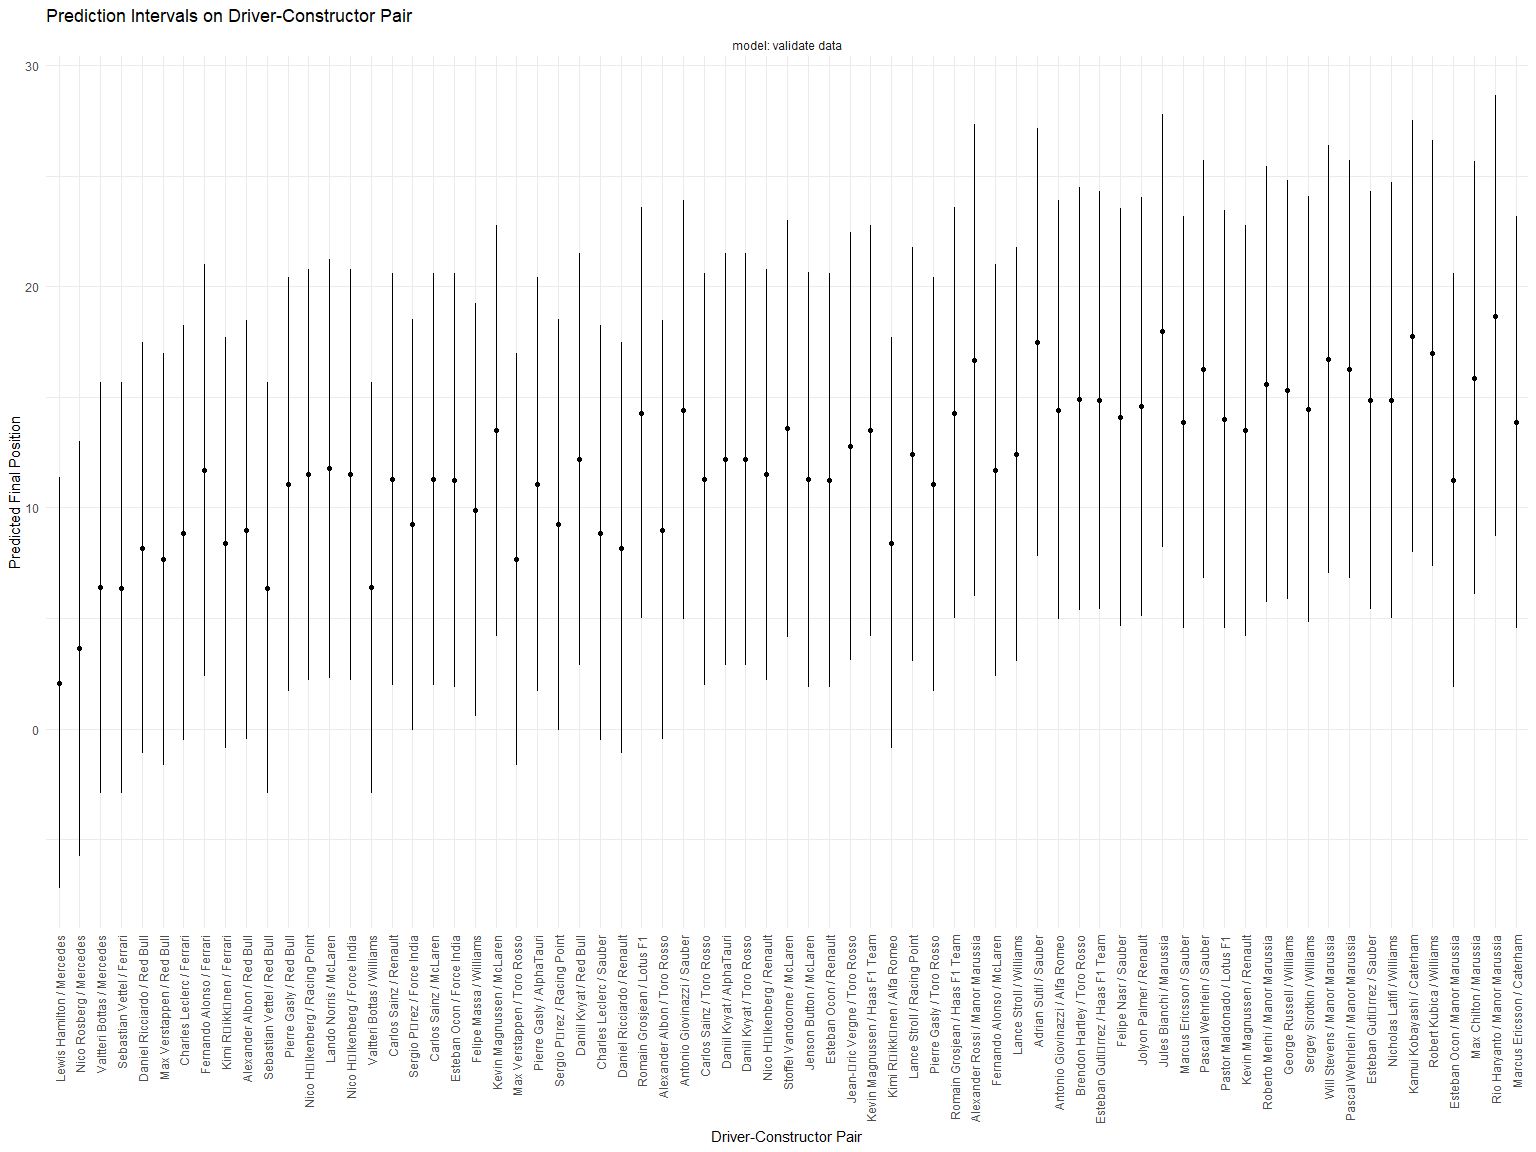
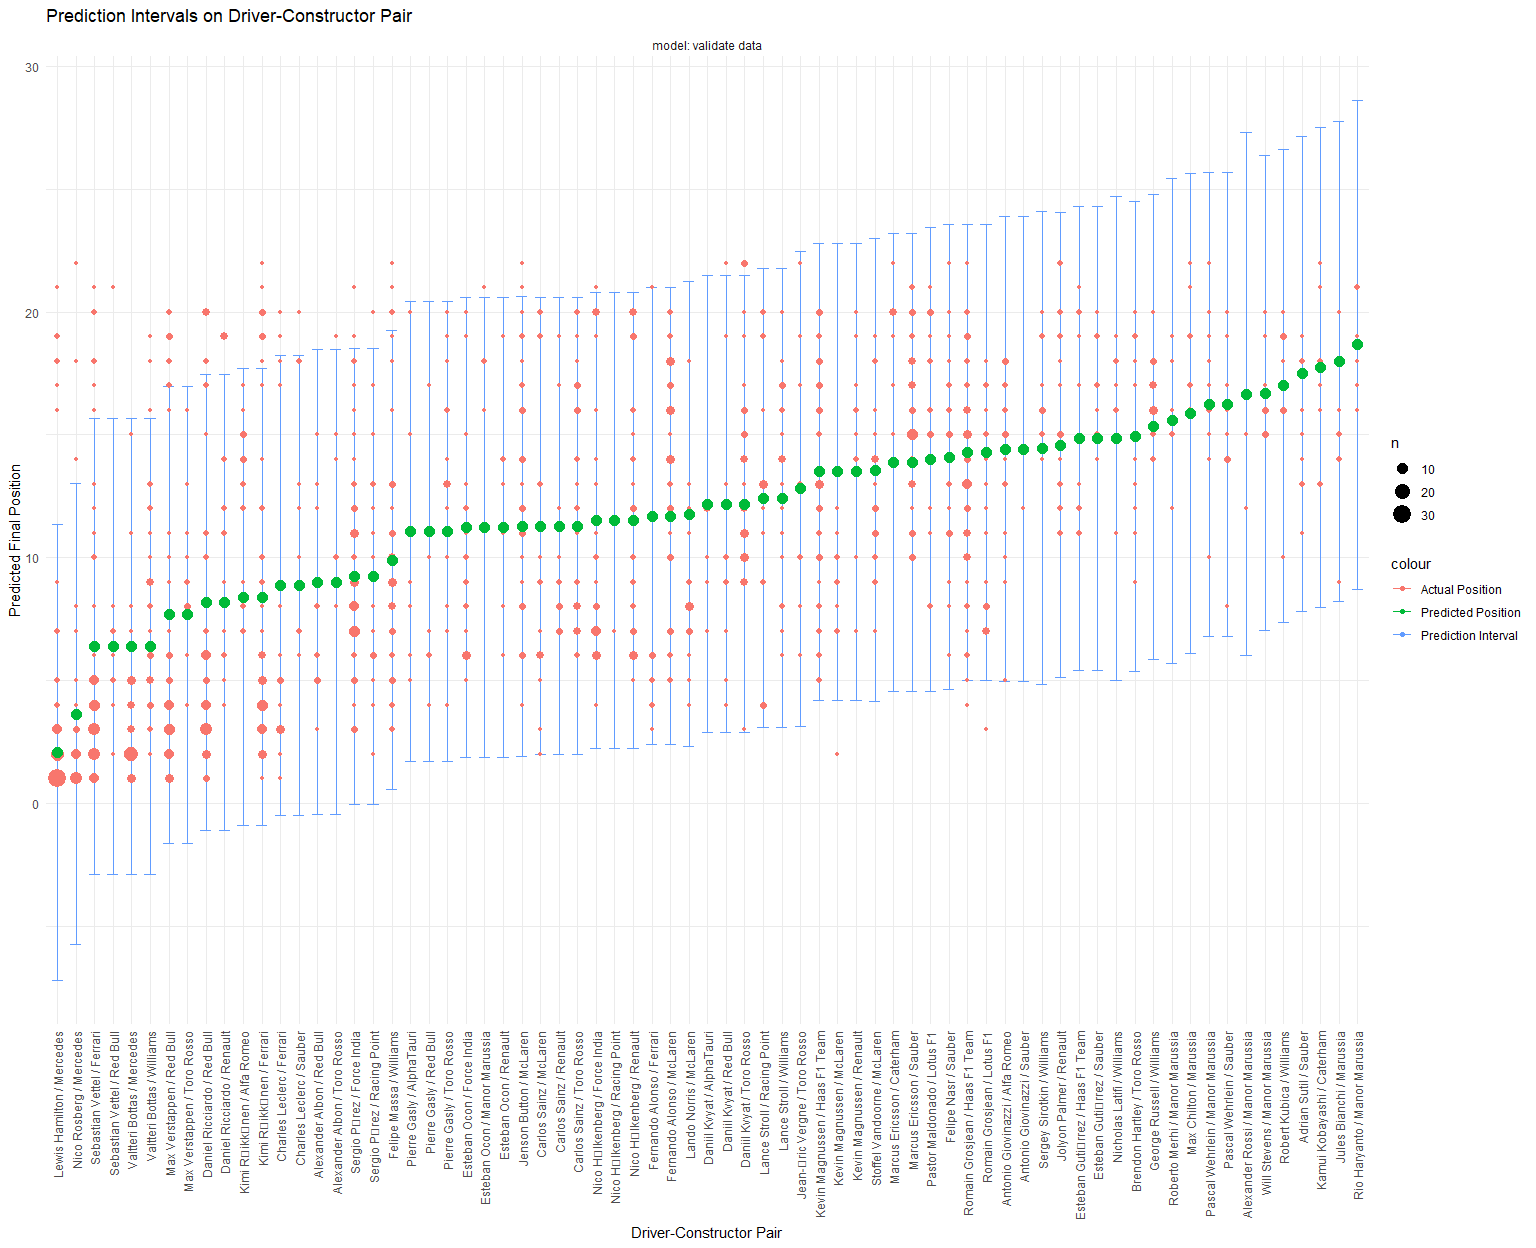
finishing up report

diff --git a/Final_Report.md b/Final_Report.md
@@ -21,12 +21,11 @@ Lilo Heinrich, Tim Novak, and Colin Takeda
   - [Final Position Order](#final-position-order)
       - [Driver and Constructor by Final Position
         Order](#driver-and-constructor-by-final-position-order)
-      - [Modelling by Final Position
-        Order](#modelling-by-final-position-order)
-      - [Prediction Interval](#prediction-interval)
-      - [Assessing Final Position Order
-        Models](#assessing-final-position-order-models)
-      - [Quantifying uncertainty](#quantifying-uncertainty)
+      - [Modeling by Final Position
+        Order](#modeling-by-final-position-order)
+      - [Predicted vs Actual Final Position
+        Order](#predicted-vs-actual-final-position-order)
+      - [Prediction Intervals](#prediction-intervals)
   - [Questions Remaining](#questions-remaining)
   - [Conclusion](#conclusion)
 
@@ -46,11 +45,14 @@ impact?
 #### Context
 
 The Formula 1 World Championship has been one of the premier forms of
-auto racing around the world since its inaugural season in 1950. The
-word “formula” refers to the set of rules to which all participants’
-cars must conform. A Formula 1 season consists of a series of Grands
-Prix races which take place worldwide on circuits and closed public
-roads.
+auto racing around the world since its first season in 1950. The word
+“formula” refers to the set of rules that the participants’ cars must
+conform to. Each Formula 1 season consists of a series of Grands Prix
+races that take place worldwide on racing circuits and closed public
+roads. Formula 1 is one of the most popular sports in the world, with
+over [450 million TV
+viewers](https://digital.hbs.edu/platform-digit/submission/formula-1-speeding-towards-esports-success/)
+in 2020.
 
 #### Data Source
 
@@ -100,22 +102,25 @@ missing values with `NA`.
 
 In our dataset we kept these columns:
 
-  - `resultId`
-  - `raceId`
-  - `driverId`
-  - `constructorId`
-  - `positionOrder`
-  - `laps`
-  - `fastestLapSpeed`
-  - `statusId`
-  - `driver_name`
-  - `constructor_name`
-  - `year`
-  - `round`
-  - `circuitId`
-  - `race_name`
-  - `status`
-  - `circuit_name`
+  - `raceId` & `race_name` The ID number and corresponding name of the
+    race
+  - `driverId` & `driver_name` The ID number and corresponding driver’s
+    name
+  - `constructorId` & `constructor_name` The car constructor’s ID number
+    and name
+  - `positionOrder` The final position order of the race, describing the
+    order the racers finished in.
+      - Racers that completed the most laps and in the fastest time
+        receive the highest positions.
+  - `laps` The number of full laps completed
+  - `fastestLapSpeed` The speed in km/hr of the racer’s fastest lap of
+    the race
+  - `statusId` & `status` The status ID number and name.
+      - Examples of status name: “Finished”, “Collision”,
+        “Disqualified”, or “Engine” (experienced engine problems)
+  - `year` The year of the race
+  - `circuitId` & `circuit_name` The circuit’s ID number and
+    corresponding name
 
 #### Time data
 
@@ -132,13 +137,14 @@ removed these observations. Overall, we still only have lap times for
 
 In this time-filtered dataset we added these columns:
 
-  - `total_time` the total time of a race in milliseconds
-  - `avg_lap` the average lap time for a individual race in milliseconds
-  - `circuit_avg_lap` the average lap time for a individual circuit in
+  - `total_time` The total time of a race in milliseconds
+  - `avg_lap` The average lap time for an individual race in
     milliseconds
-  - `circuit_lap_sd` the standard deviation of the average lap time in
+  - `circuit_avg_lap` The average lap time for a individual circuit in
     milliseconds
-  - `std_avg_lap` the standardized average lap time \[unitless\]
+  - `circuit_lap_sd` The standard deviation of the average lap time in
+    milliseconds
+  - `std_avg_lap` The standardized average lap time \[unitless\]
 
 #### Changes in racing ruleset/vehicle design through the years
 
@@ -156,10 +162,19 @@ Thus we filtered our data to only examine the data from 2014 onwards.
 
   - Some examples of [constructor name
     changes](https://www.reddit.com/r/formula1/comments/1dos3r/i_made_a_diagram_to_show_how_current_f1_teams/)
+      - Our dataset does not include the aliases or previous names of
+        constructors, so we are unable to account for this
+        relationship.  
   - New drivers are skewed because they don’t have as many data points
     yet
+      - The more datapoints we have on each driver, the better we can
+        characterize their performance. New drivers have fewer known
+        datapoints, so their predictions will have a higher level of
+        uncertainty.
   - Teams and drivers are correlated, in that the best drivers tend to
     get hired by the best teams
+      - This confluence between team and driver may make it difficult to
+        separate the impact of driver and constructor.
 
 -----
 
@@ -169,8 +184,13 @@ Thus we filtered our data to only examine the data from 2014 onwards.
 
 ![](Final_Report_files/figure-gfm/finish%20race-1.png)<!-- -->
 
+    ## # A tibble: 1 x 1
+    ##   percent_finishrace
+    ##                <dbl>
+    ## 1               80.4
+
 As shown in the graph above, final position is heavily reliant on how
-many laps the driver was able to complete. And almost a third of the
+many laps the driver was able to complete. And almost a fifth of the
 time, collisions or car troubles put drivers out of commission before
 the race is finished. These final standings are not reflective of how
 well the driver was doing before that point, so we decided to use
@@ -270,38 +290,37 @@ should explore other variables to indicate performance.
 We can see that when we plot the final position vs the driver of the
 vehicle there does seem to be a correlation. in that some drivers tend
 to outperform the average and some drivers tend to underperform the
-average. If we examine the names the highly performing racers tend to be
-the racers more well renown for their skill such as [Lewis
+average. If we examine the names, the highly performing racers tend to
+be the racers more well renown for their skill, such as [Lewis
 Hamilton](https://en.wikipedia.org/wiki/Lewis_Hamilton) and [Nico
 Rosberg](https://en.wikipedia.org/wiki/Nico_Rosberg). This suggests that
 there is a correlation between the driver performance and the standing
-in the race and we can see this play out in the relatively linear
+in the race, and that we can see this play out in the relatively linear
 relation between the two variables. An interesting relation we can see
 in the data are ‘plateaus’ in the median values where there are sets of
-drivers with similar performances.
+drivers with similar performance.
 
 ![](Final_Report_files/figure-gfm/unnamed-chunk-5-1.png)<!-- -->
 
-When we plot the constructor vs the final position order we see
-generally that the higher performing constructors are associated with a
-low position order, and the lower performing constructors are associated
-with a lower position order, however this is not a linear relationship.
-The highest performing constructors account for most of the low final
-position orders and the lowest performing constructors account for much
-of the high final position orders. But middle performing constructors
-all seem to have similar performance.
+When we plot the constructor by the final position order, we see
+generally that the higher performing constructors are associated with
+lower position order, and the lower performing constructors are
+associated with higher position order. However this is not a linear
+relationship. The highest performing constructors account for most of
+the low final position orders and the lowest performing constructors
+account for much of the high final position orders, but middle
+performing constructors all seem to have similar performance.
 
 Taken together we can see that the driver and constructor graphs are
 correlated with the final position order so it is likely that both of
-them help account for the final position order, but they might not be
-the sole determining factors. The more linear relationship of driver
-with final position order suggests that the driver is slightly more
-predictive of the final position order than the less linear vehicle
-constructor.
+them help account for the final position order, but are not the sole
+determining factors. The more linear relationship of driver with final
+position order suggests that the driver is slightly more predictive of
+the final position order than the less linear vehicle constructor.
 
-#### Modelling by Final Position Order
+#### Modeling by Final Position Order
 
-Next, we will model the entire data set
+Next, we will apply a linear model on the entire data set.
 
     ## Train Fit - Just Driver
 
@@ -325,63 +344,80 @@ After multiple samples we see that the R-squared values for just driver
 and just constructor tend to range from 30% to 37% and a MSE that ranges
 from 22 to 24. The just driver and just constructor fits seem to be very
 close in R-squared values and MSE to one another and there is no
-significant difference between the two. In comparison, driver and
-constructor has an R-squared value that tends to range from 33% to 41%
-and a MSE of 20 to 23. The driver and constructor fit tends to always be
-better than either the just driver or just constructor fit. Overall, the
-the range of values for the driver and constructor fit is promising
-given the multitude of outside factors in racing that is not covered by
-the investigated factors.
+significant difference between the two.
 
-#### Prediction Interval
+In comparison, driver and constructor has an R-squared value that tends
+to range from 33% to 41% and a MSE of 20 to 23. The driver and
+constructor fit tends to always be better than either the just driver or
+just constructor fit.
 
-    ## Train Fit - Just Driver
+Overall, the the range of values for the driver and constructor fit is
+promising given the multitude of outside factors in racing that are not
+covered by the investigated factors.
 
-    ##   Rsquare 0.3464126
+#### Predicted vs Actual Final Position Order
 
-    ##   MSE 23.39755
+![](Final_Report_files/figure-gfm/unnamed-chunk-8-1.png)<!-- -->![](Final_Report_files/figure-gfm/unnamed-chunk-8-2.png)<!-- -->
 
-    ## Train Fit - Just Constructor
+![](Final_Report_files/figure-gfm/unnamed-chunk-9-1.png)<!-- -->
 
-    ##   Rsquare 0.3488549
+Above are the visualizations of the actual vs. predicted final position
+of our three linear models, with a line through the axis of symmetry
+showing where the predicted and actual positions are equal. Comparing
+the distance from each datapoint to the line of symmetry, we can see
+that there is a weak linear correlation between the predicted and actual
+final position in all three models. Interestingly, the shape of the
+training data closely resembles the shape of the validation data.
 
-    ##   MSE 23.30775
+In all of the models, there are very few predicted final positions below
+5th place or above 20th place; nearly all of the predicted positions
+fall in the middle of the range of possible values. This makes sense,
+because a driver or constructor’s performance would have to be either
+consistently great or consistently terrible to have achieved a very high
+or very low average ranking.
 
-    ## Train Fit - Driver and Constructor
+For the model of constructor-only, there are tall vertical
+stratifications in predicted final position. This is because the range
+of final positions that each constructor achieves is typically wider
+than one position value, yet the linear model only assigns a single
+coefficient to each constructor, causing all of the datapoints of each
+constructor to assume the constructor’s mean position value. This poor
+fit is an inherent limitation of reducing the constructors to linear
+variables. The same problem applies to considering drivers as linear
+variables.
 
-    ##   Rsquare 0.3817959
-
-    ##   MSE 22.13336
-
-#### Assessing Final Position Order Models
-
-![](Final_Report_files/figure-gfm/unnamed-chunk-9-1.png)<!-- -->![](Final_Report_files/figure-gfm/unnamed-chunk-9-2.png)<!-- -->![](Final_Report_files/figure-gfm/unnamed-chunk-9-3.png)<!-- -->
-Above is a visualization of the actual vs. predicted final position of
-our linear models. The shape of the training data graph closely
-resembles the shape of the validation data graph in all 3 cases.
-
-For the model with the input of only constructor, there are horizontal
-stratifications showing up at different predicted final positions. This
-is because there are only 17 constructors, …
-
-In the graph of the driver and constructor model, there is a noticeable
-gap in predictions between fourth and sixth place …
-
-#### Quantifying uncertainty
+#### Prediction Intervals
 
 ![](Final_Report_files/figure-gfm/unnamed-chunk-10-1.png)<!-- -->
 
-The graph above shows the predicted final position as well as the
-prediction interval for each drier-constructor pair in our data. While
-we are able to compute the prediction intervals on all possible inputs
-to our model, we have had a hard time finding a way to create an
-effective visual comparing these prediction intervals to the actual
-final position.
+While we are able to compute the prediction intervals on the inputs to
+our model, we had a hard time creating an effective visual to compare
+the predictions to actual final position in a meaningful way due to the
+large number of levels. The graph above shows the position prediction
+intervals for each driver-constructor pair, ordered from lowest to
+highest predicted value. Graphing the final position on top of the
+prediction intervals, we can see that the coverage of the prediction
+intervals on the validation data is good, with the majority of
+datapoints falling inside the prediction interval.
 
-If possible given your data, report all estimates with confidence /
-prediction / tolerance intervals. If not possible, clearly explain why
-it is not possible to provide intervals and document what sources of
-uncertainty are not quantified.
+However, there is a group of high outliers occurring above several of
+the driver-constructor pairs with the lowest predicted positions. The
+prediction intervals with a lower bound below 0 have much less coverage
+of the actual position data, making up most of the outliers seen. It
+makes sense that if the predicted value is low, the lower prediction
+bound will shift into the negative numbers. However, achieving a
+negative position in the race is not possible. Prediction intervals are
+intended for normally distributed data so the asymmetrical distribution
+of these driver-constructor pairs renders them less effective.
+
+The average size of these prediction intervals is approximately 15
+positions which is large considering that there are less than 30
+possible positions to take in each race. This tells us that the range of
+our data is quite wide in comparison to the range of possible values,
+unfortunately meaning that the error in our predictions is also
+relatively large.
+
+-----
 
 ## Questions Remaining
 
@@ -389,7 +425,7 @@ uncertainty are not quantified.
     overall trend of the data?
   - Can you look at track changes over the years and effects on lap
     times?
-  - How much does starting position have an effect on the final ending
+  - How much does starting position have an effect on the final/ending
     position?
   - Using the history of an individual driver’s performances can you
     predict their lap times in future races?
@@ -403,8 +439,8 @@ driver has a greater impact on overall performance. The answer that we
 came to is that both have a sizable impact on performance, and their
 individual significance cannot be easily isolated using simple models.
 Our models demonstrate that using either driver or constructor on its
-own is a significant predictor for final position order. (which one is a
-better approximation relies on your sampling received in your train test
+own is a significant predictor for final position order. (Which one is a
+better approximation relies on the sampling made in the train-test
 split). A model using the combination of both variables as a predictor
 served as the strongest predictor of final position, however it still
 did not sufficiently account for the final position of the vehicles. If
